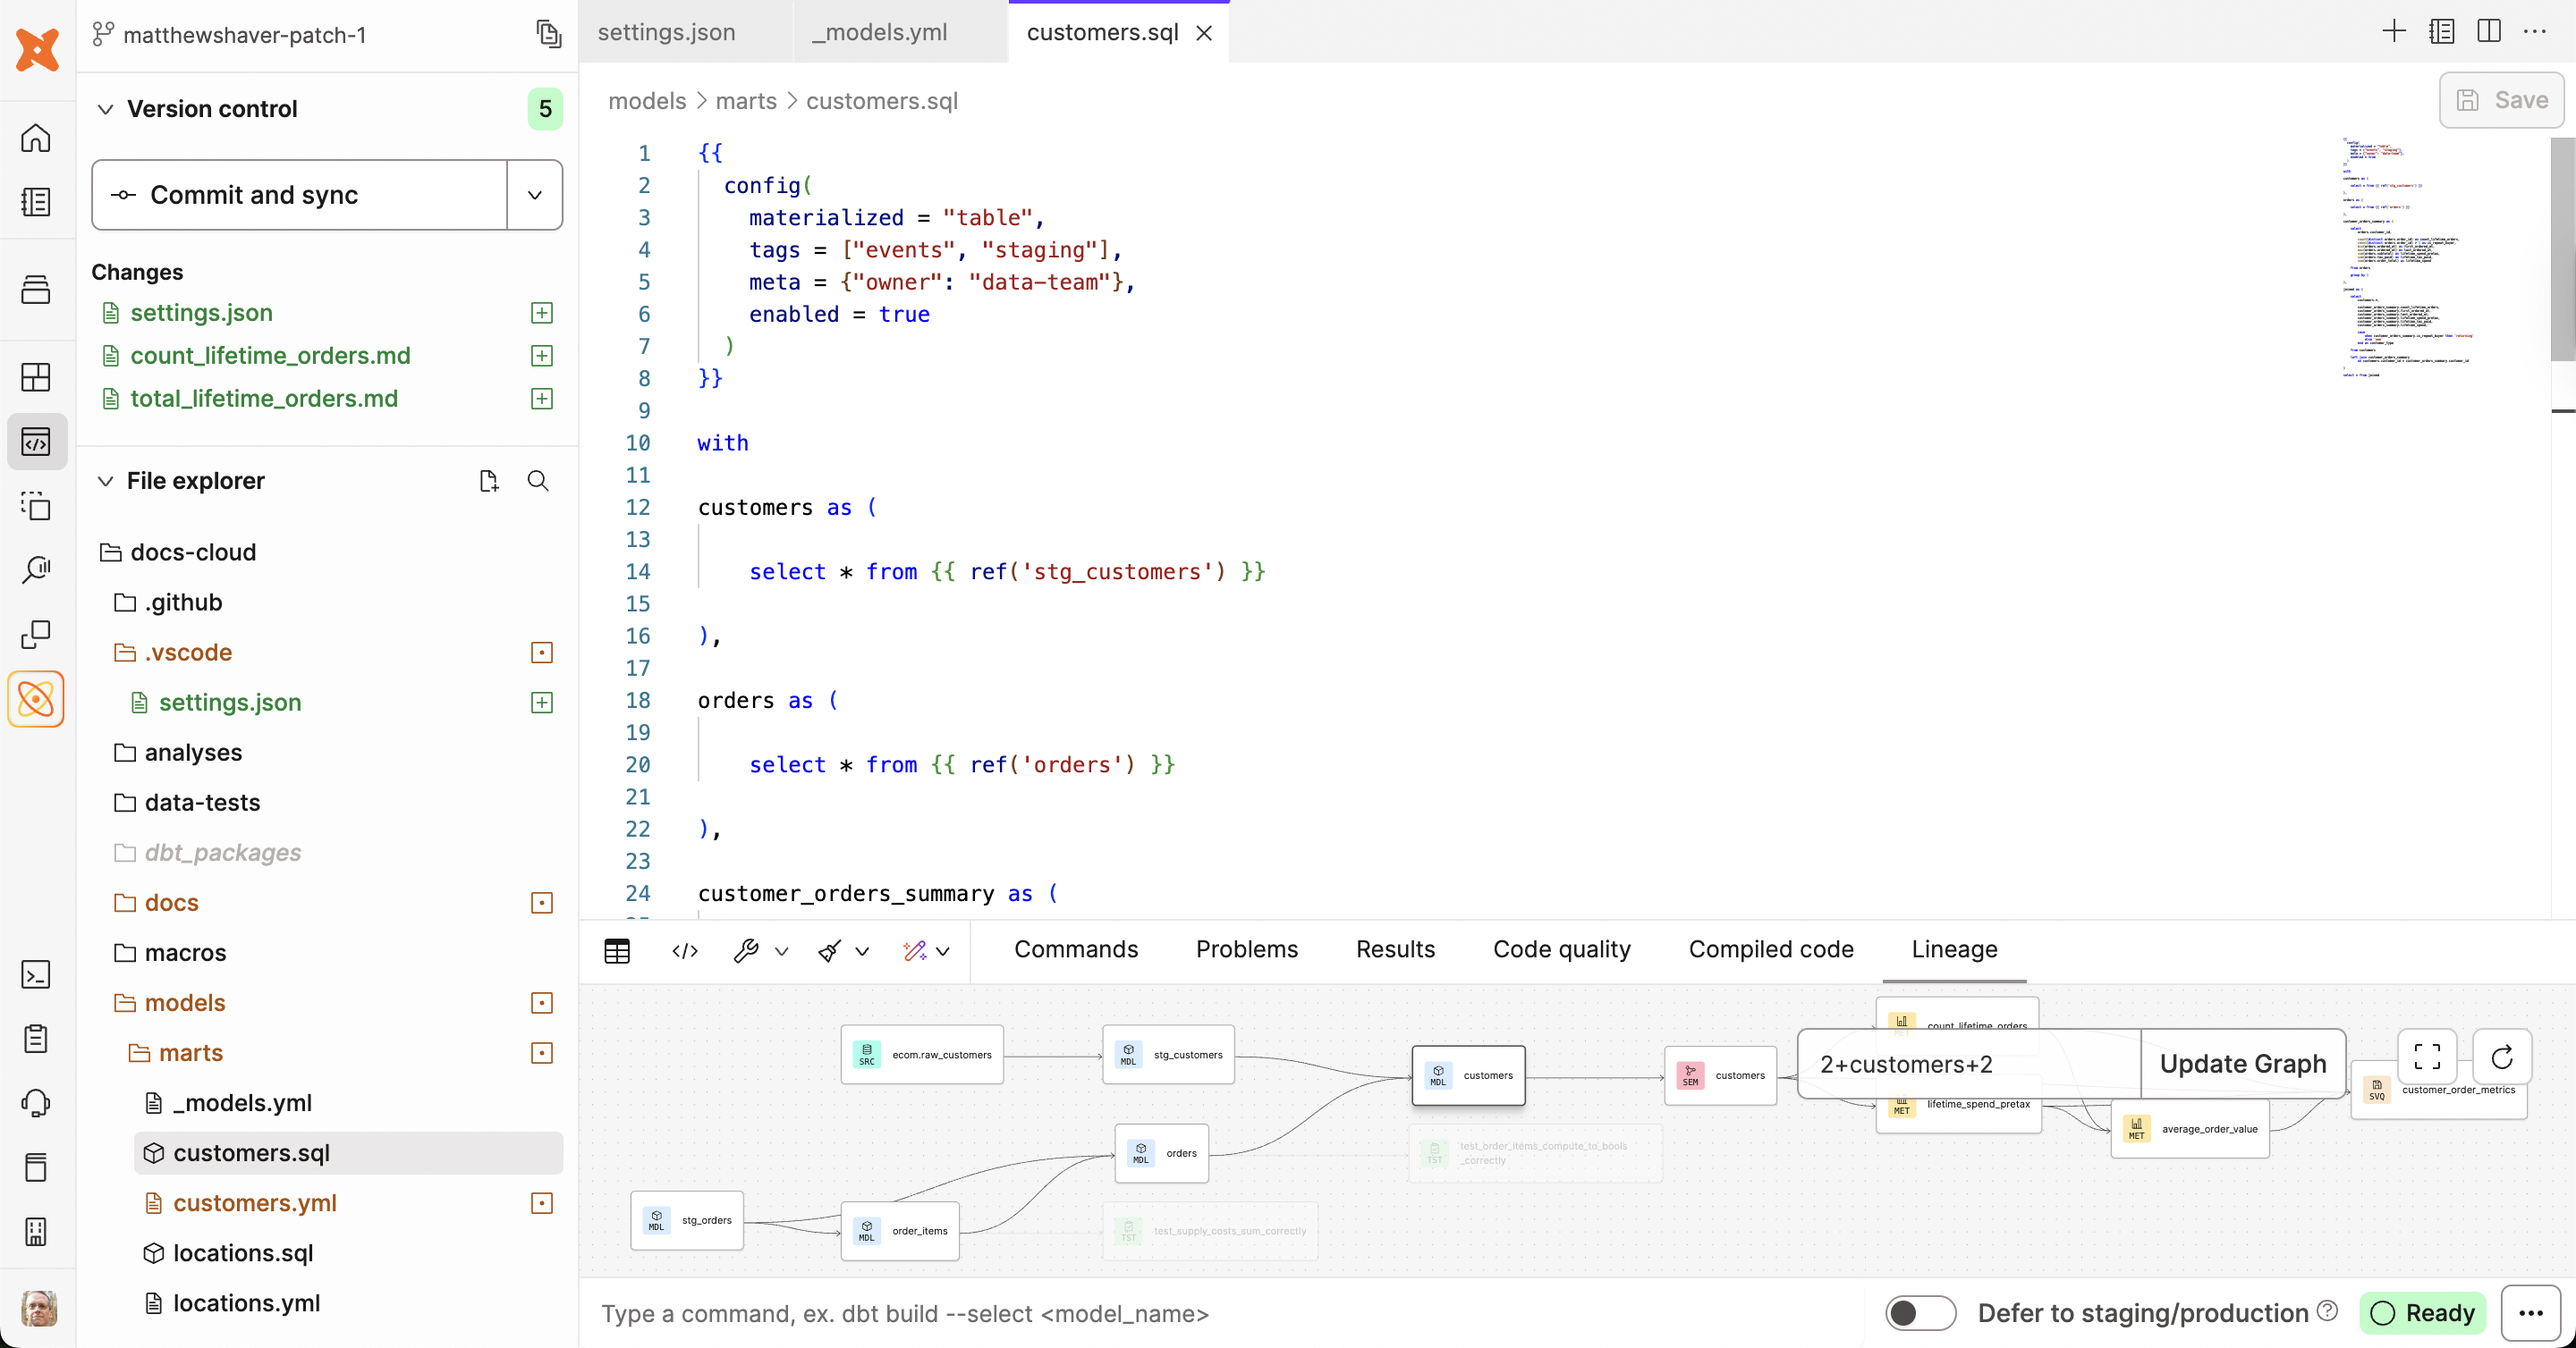
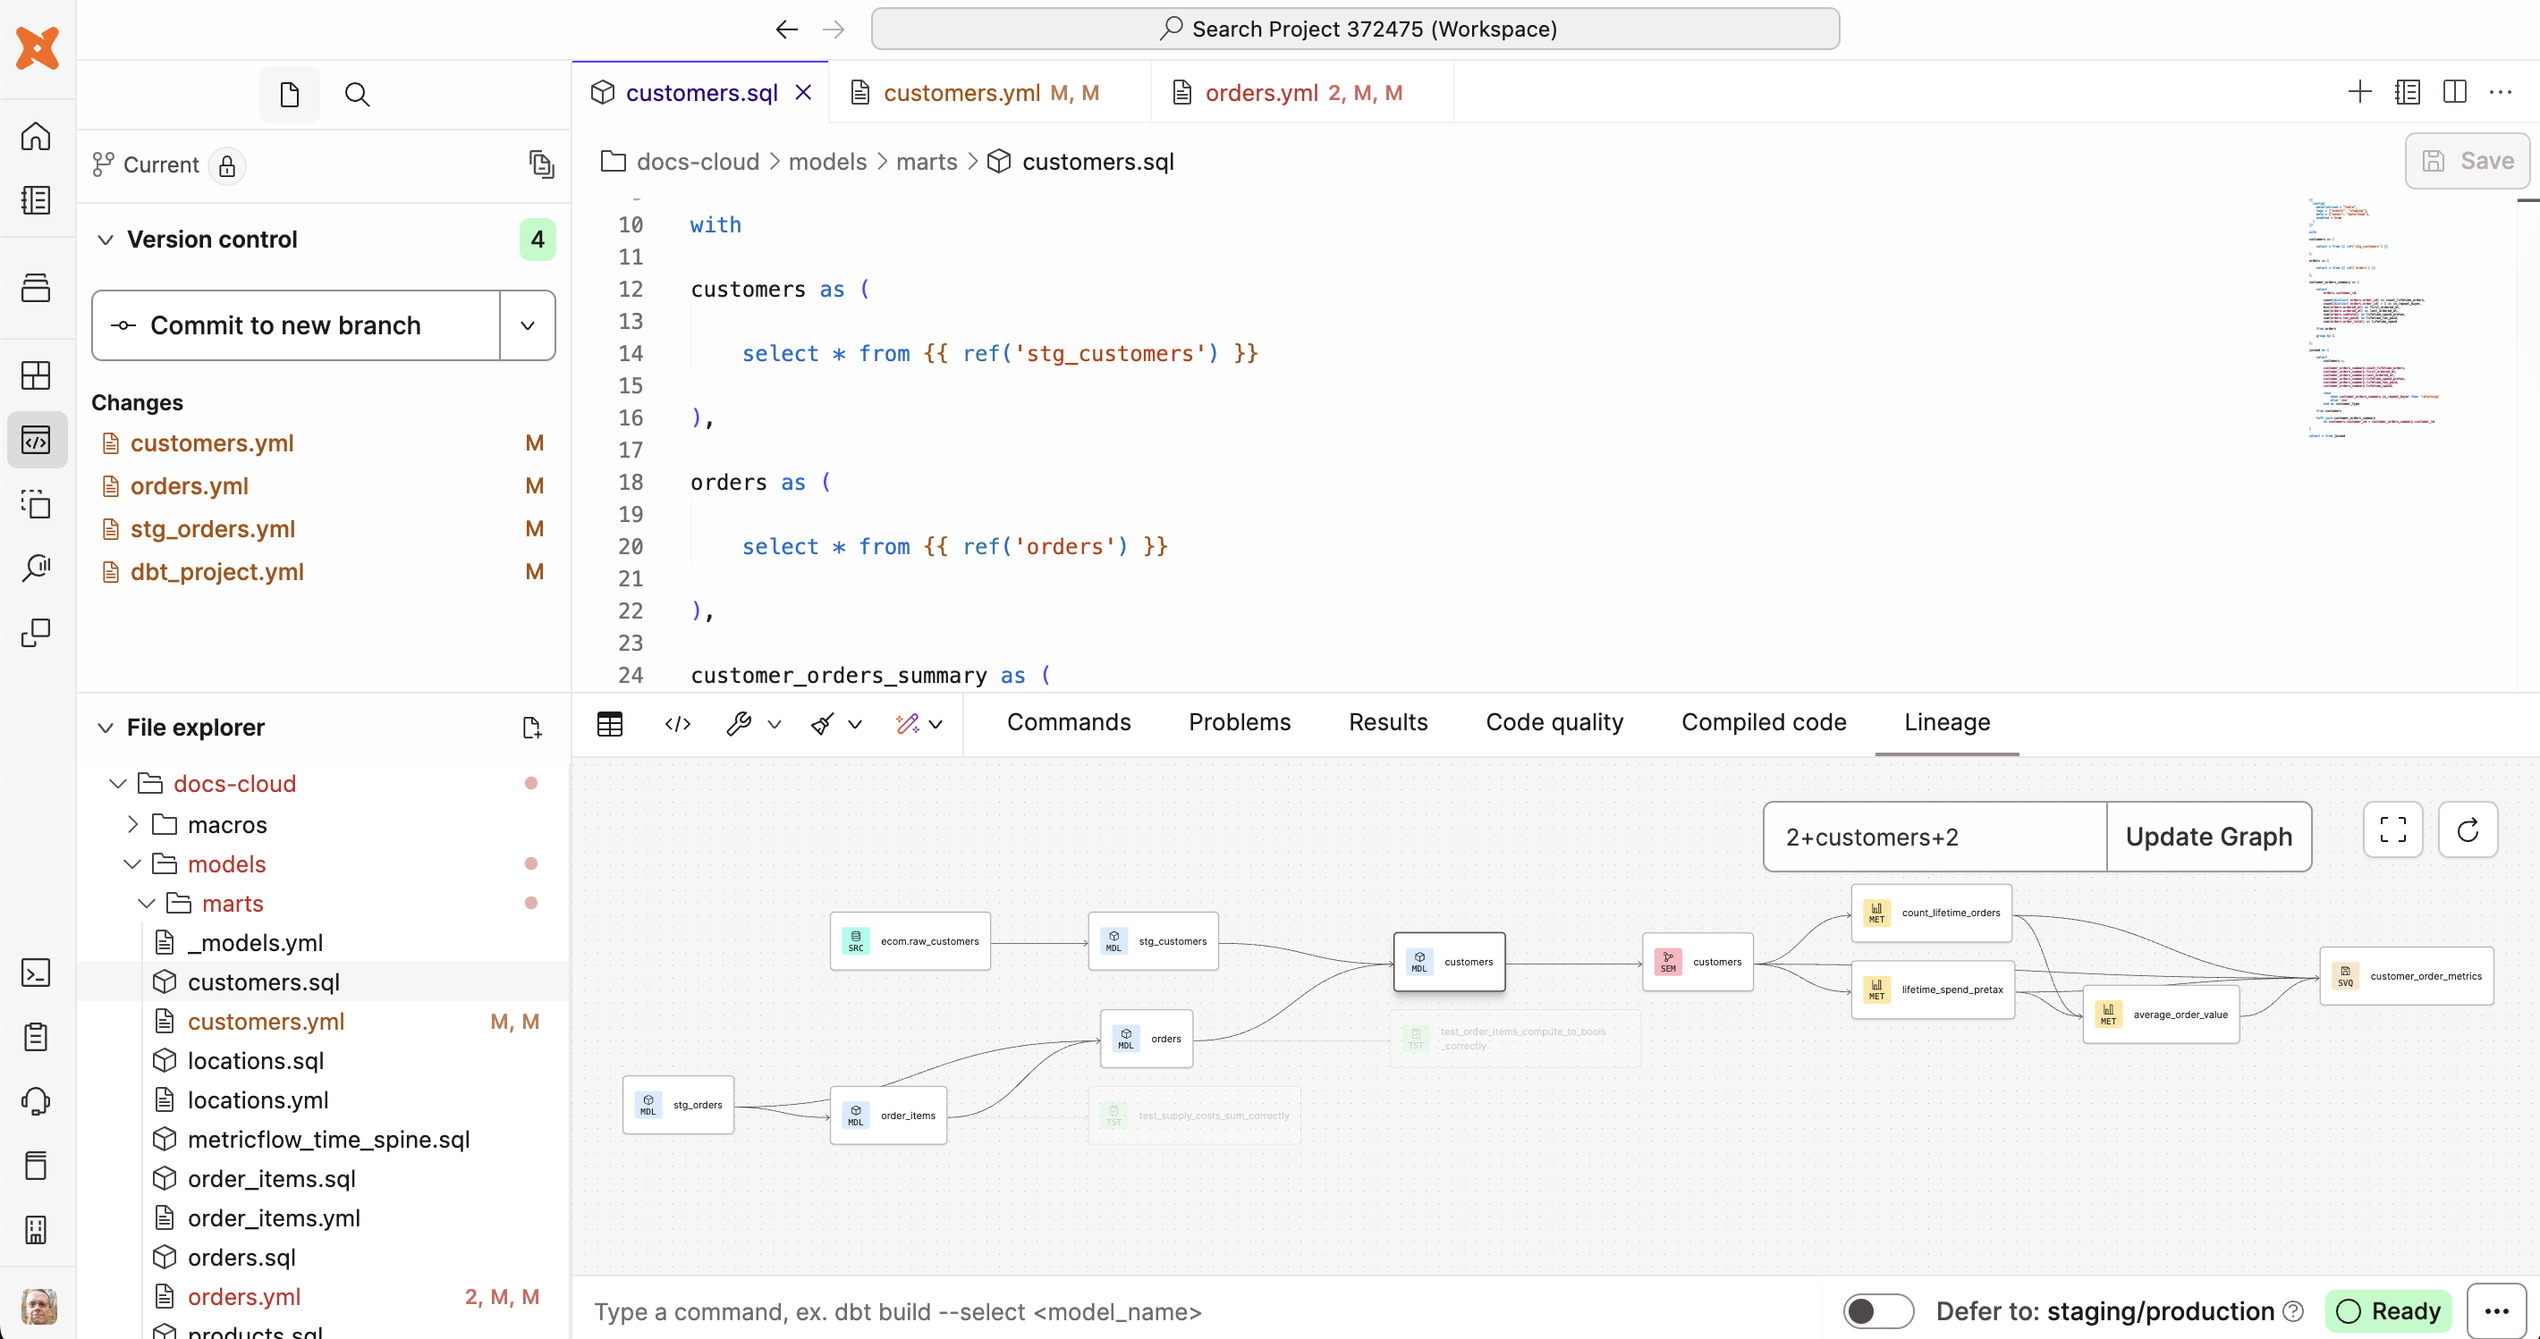
IDE search options

diff --git a/website/docs/docs/cloud/studio-ide/ide-user-interface.md b/website/docs/docs/cloud/studio-ide/ide-user-interface.md
@@ -10,7 +10,7 @@ The [<Constant name="cloud_ide" />](/docs/cloud/studio-ide/develop-in-studio) is
 
 This page offers comprehensive definitions and terminology of user interface elements, allowing you to navigate the <Constant name="cloud_ide" /> landscape with ease.
 
-<Lightbox src="/img/docs/dbt-cloud/cloud-ide/ide-basic-layout.png" width="90%" title="The Studio IDE layout includes version control on the upper left, files/folders on the left, editor on the right an command/console at the bottom"/>
+<Lightbox src="/img/docs/dbt-cloud/cloud-ide/ide-basic-layout.png" width="90%" title="The Studio IDE layout includes version control on the upper left, files/folders and search on the left, editor on the right, search palette at the top, and command/console at the bottom"/>
 
 ## Basic layout
 
@@ -25,7 +25,7 @@ The <Constant name="cloud_ide" /> streamlines your workflow, and features a popu
 
 3. [**Version Control**](#editing-features) &mdash; The <Constant name="cloud_ide" />'s powerful Version Control section contains all git-related elements, including the <Constant name="git" /> actions button and the **Changes** section. 
 
-4. **File <Constant name="explorer" /> &mdash;** The File <Constant name="explorer" /> shows the filetree of your repository. You can:
+4. **File explorer &mdash;** The File explorer shows the filetree of your repository. You can:
     - Click on any file in the filetree to open the file in the file editor. 
     - Click and drag files between directories to move files. 
     - Right-click a file to access the sub-menu options like duplicate file, copy file name, copy as `ref`, rename, delete.
@@ -42,6 +42,52 @@ The <Constant name="cloud_ide" /> streamlines your workflow, and features a popu
 6. **Defer to production &mdash;** The **Defer to production** toggle allows developers to only build and run and test models they've edited without having to first run and build all the models that come before them (upstream parents). Refer to [Using defer in <Constant name="cloud" />](/docs/cloud/about-cloud-develop-defer#defer-in-the-dbt-cloud-ide) for more info.
 
 7. **Status button &mdash;** The <Constant name="cloud_ide" /> Status button, located on the lower right of the <Constant name="cloud_ide" />, displays the current <Constant name="cloud_ide" /> status. If there is an error in the status or in the dbt code that stops the project from parsing, the button will turn red and display "Error". If there aren't any errors, the button will display a green "Ready" status. To access the [<Constant name="cloud_ide" /> Status modal](#modals-and-menus), simply click on this button.
+
+## Search your project
+
+The <Constant name="cloud_ide" /> provides tools to help you quickly navigate your project's files, find information, and replace syntax with just a few clicks in a layout that's familiar to users of popular IDEs.
+
+<Lightbox src="/img/docs/dbt-cloud/cloud-ide/search-and-command.png" width="90%" title="Use the search bar and search palette to quickly navigate your file tree and open tabs."/>
+
+1. [Search and replace](#search-and-replace)
+2. [Search palette](#search-palette)
+
+### Search and replace
+
+The search feature enables you to quickly parse your files for specific terms or phrases and replace them with the click of a button.
+
+<Lightbox src="/img/docs/dbt-cloud/cloud-ide/search-and-replace.png" width="50%" title="Search files for specific terms and quickly replace them." />
+
+1. Toggle between the **file tree** and **search** navigation panes.
+2. Search for words or phrases. Enhance the search to match case and/or whole words. You can also input replacement words or phrases. Click the icon next to the **Replace** bar to replace all entries.
+3. Navigate the search results. Click an entry to open the related file and highlight it on the screen. If you've entered replacement text, you'll see a preview of the new syntax. Click the symbol next to an entry to substitute the text with whatever is in the **Replace** bar.
+
+###  Search palette
+
+The search palette enhances navigation of your dbt project, enabling you to search files, content, and symbols, show and run IDE commands, view recent files, and more. Click the search palette to view the available options.
+
+<Lightbox src="/img/docs/dbt-cloud/cloud-ide/search-palette.png" width="90%" title="The search palette enables you to quickly navigate your project and run commands." />
+
+- **Go to File:** Search for files in your current project and open them in a new tab.
+- **Show and Run Commands:** Opens the [command palette](#additional-editing-features) _The search palette doesn't currently include dbt commands such as `run` or `build`._
+- **Search for Text:** Search for text and open files from results, or send your results to the [search and replace](#search-and-replace) pane.
+- **Go to Symbol in Editor:** Quickly jump to symbols in the current file.
+- **More:** Display advanced features such as **Go to Line/Column**, **Go to Symbol in Workspace**, and search within currently open files only. 
+
+<DocCarousel slidesPerView={1}>
+
+<Lightbox src="/img/docs/dbt-cloud/cloud-ide/go-to-file.png" width="90%" title="Go to File." />
+
+<Lightbox src="/img/docs/dbt-cloud/cloud-ide/show-and-run-commands.png" width="90%" title="Show and Run Commands." />
+
+<Lightbox src="/img/docs/dbt-cloud/cloud-ide/search-for-text.png" width="90%" title="Search for text." />
+
+<Lightbox src="/img/docs/dbt-cloud/cloud-ide/go-to-symbol.png" width="90%" title="Go to Symbol in Editor." />
+
+<Lightbox src="/img/docs/dbt-cloud/cloud-ide/more.png" width="90%" title="More." />
+
+
+</DocCarousel>
 
 ## Editing features
 
@@ -172,7 +218,7 @@ Use menus and modals to interact with <Constant name="cloud_ide" /> and access u
 
 #### Global Command Palette
   The Global Command Palette provides helpful shortcuts to interact with the <Constant name="cloud_ide" />, such as git actions, specialized dbt commands, and compile, and preview actions, among others. To open the menu, use Command-P or Control-P.
-  <Lightbox src="/img/docs/dbt-cloud/cloud-ide/ide-global-command-palette-with-save.png" width="100%" title="The Command History returns a log and detail of all your dbt invocations."/>
+  <Lightbox src="/img/docs/dbt-cloud/cloud-ide/ide-global-search-palette-with-save.png" width="100%" title="The Command History returns a log and detail of all your dbt invocations."/>
 
 #### <Constant name="cloud_ide" /> Status modal
   The <Constant name="cloud_ide" /> Status modal shows the current error message and debug logs for the server. This also contains an option to restart the <Constant name="cloud_ide" />. Open this by clicking on the <Constant name="cloud_ide" /> Status button.

diff --git a/website/docs/docs/dbt-versions/release-notes.md b/website/docs/docs/dbt-versions/release-notes.md
@@ -18,6 +18,7 @@ Release notes are grouped by month for both multi-tenant and virtual private clo
 
 ## January 2026
 
+- **Enhancement:** The [Studio IDE](/docs/cloud/studio-ide/ide-user-interface#search-your-project) now includes search and replace functionality and a command palette, enabling you to quickly find and replace text across your project, navigate files, jump to symbols, and run IDE configuration commands.
 - **Enhancement:** When a model fails a data test, [state-aware orchestration](/docs/deploy/state-aware-about) rebuilds it on subsequent runs instead of reusing it from prior state to ensure dbt reevaluates data quality issues.
 - **Enhancement:** [dbt <Constant name="copilot" />](/docs/cloud/dbt-copilot) correctly detects column names across various `schema.yml` files, adds only missing descriptions, and preserves existing ones.
 - **Enhancement:** State-aware orchestration now detects and rebuilds models whose tables are deleted from the warehouse, even when there are no code or data changes. Previously, tables deleted externally were not detected, and therefore not rebuilt, unless code or data had changed. For more information, see [Handling deleted tables](/docs/deploy/state-aware-about#handling-deleted-tables).
